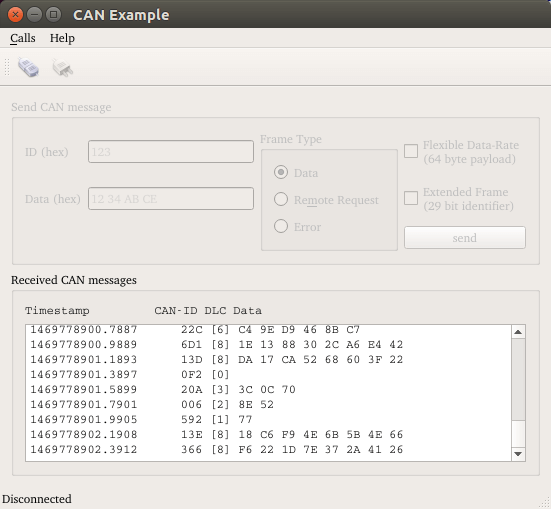
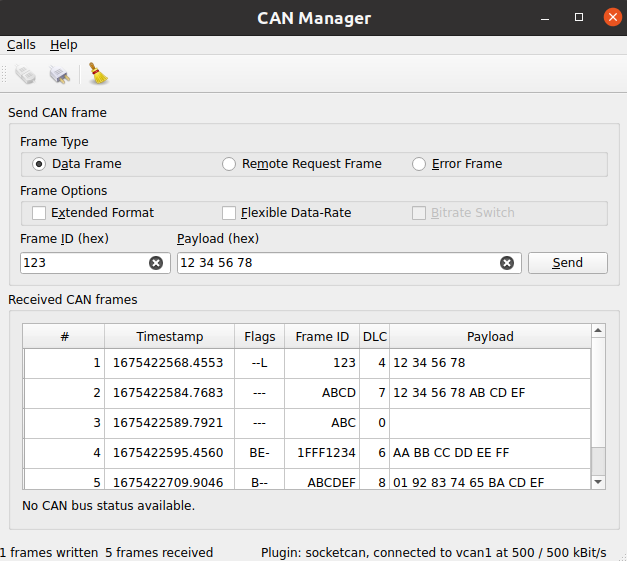
CAN Manager Example: extend documentation
Extend the documentation so that it actually highlights the main
features shown by the example.

Also update the documentation to match the guidelines:
* update screenshot
* add Connectivity category

Task-number: QTBUG-110890
Pick-to: 6.5

diff --git a/examples/serialbus/can/mainwindow.cpp b/examples/serialbus/can/mainwindow.cpp
@@ -107,9 +107,11 @@ void MainWindow::connectDevice()
     else
         m_model->setQueueLimit(0);
 
+//! [create_can_device_0]
     QString errorString;
     m_canDevice.reset(QCanBus::instance()->createDevice(p.pluginName, p.deviceInterfaceName,
                                                         &errorString));
+//! [create_can_device_0]
     if (!m_canDevice) {
         m_status->setText(tr("Error creating device '%1', reason: '%2'")
                           .arg(p.pluginName, errorString));
@@ -118,12 +120,14 @@ void MainWindow::connectDevice()
 
     m_numberFramesWritten = 0;
 
+//! [create_can_device_1]
     connect(m_canDevice.get(), &QCanBusDevice::errorOccurred,
             this, &MainWindow::processErrors);
     connect(m_canDevice.get(), &QCanBusDevice::framesReceived,
             this, &MainWindow::processReceivedFrames);
     connect(m_canDevice.get(), &QCanBusDevice::framesWritten,
             this, &MainWindow::processFramesWritten);
+//! [create_can_device_1]
 
     if (p.useConfigurationEnabled) {
         for (const ConnectDialog::ConfigurationItem &item : p.configurations)
@@ -244,6 +248,7 @@ void MainWindow::processReceivedFrames()
     if (!m_canDevice)
         return;
 
+//! [receive_can_frame]
     while (m_canDevice->framesAvailable()) {
         m_numberFramesReceived++;
         const QCanBusFrame frame = m_canDevice->readFrame();
@@ -266,6 +271,7 @@ void MainWindow::processReceivedFrames()
         m_model->appendFrame(QStringList({QString::number(m_numberFramesReceived),
                                           time, flags, id, dlc, data}));
     }
+//! [receive_can_frame]
 }
 
 void MainWindow::sendFrame(const QCanBusFrame &frame) const
@@ -273,7 +279,9 @@ void MainWindow::sendFrame(const QCanBusFrame &frame) const
     if (!m_canDevice)
         return;
 
+//! [send_can_frame]
     m_canDevice->writeFrame(frame);
+//! [send_can_frame]
 }
 
 void MainWindow::onAppendFramesTimeout()

diff --git a/examples/serialbus/can/sendframebox.cpp b/examples/serialbus/can/sendframebox.cpp
@@ -208,6 +208,7 @@ SendFrameBox::SendFrameBox(QWidget *parent) :
     frameIdOrPayloadChanged();
 
     connect(m_ui->sendButton, &QPushButton::clicked, [this]() {
+    //! [prepare_can_frame]
         const uint frameId = m_ui->frameIdEdit->text().toUInt(nullptr, 16);
         QString data = m_ui->payloadEdit->text();
         m_ui->payloadEdit->setText(formatHexData(data));
@@ -222,6 +223,7 @@ SendFrameBox::SendFrameBox(QWidget *parent) :
             frame.setFrameType(QCanBusFrame::ErrorFrame);
         else if (m_ui->remoteFrame->isChecked())
             frame.setFrameType(QCanBusFrame::RemoteRequestFrame);
+    //! [prepare_can_frame]
 
         emit sendFrame(frame);
     });
